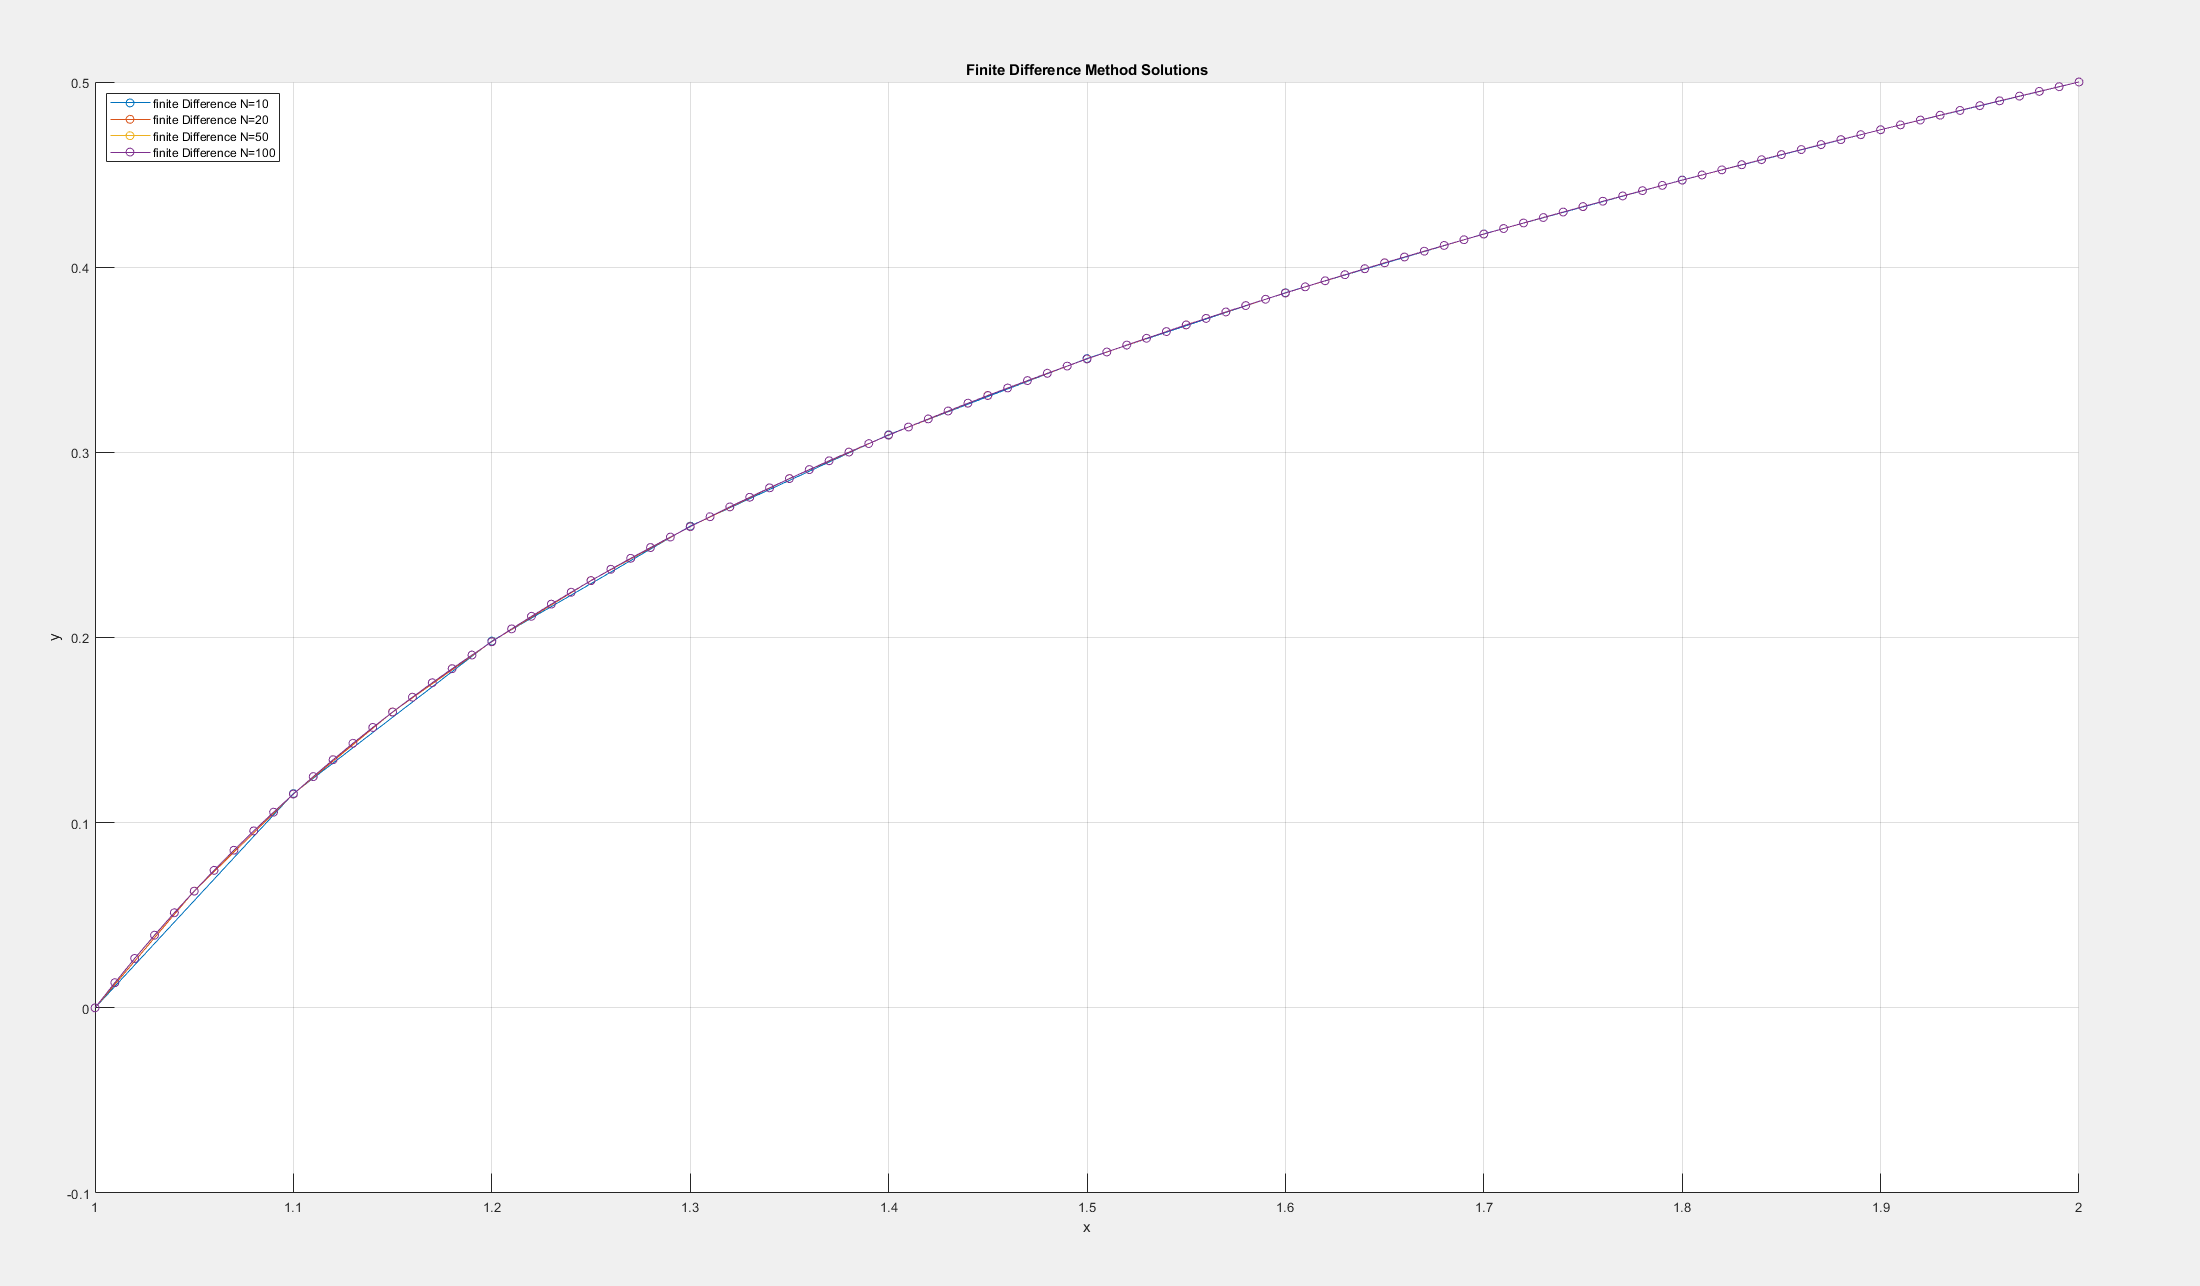
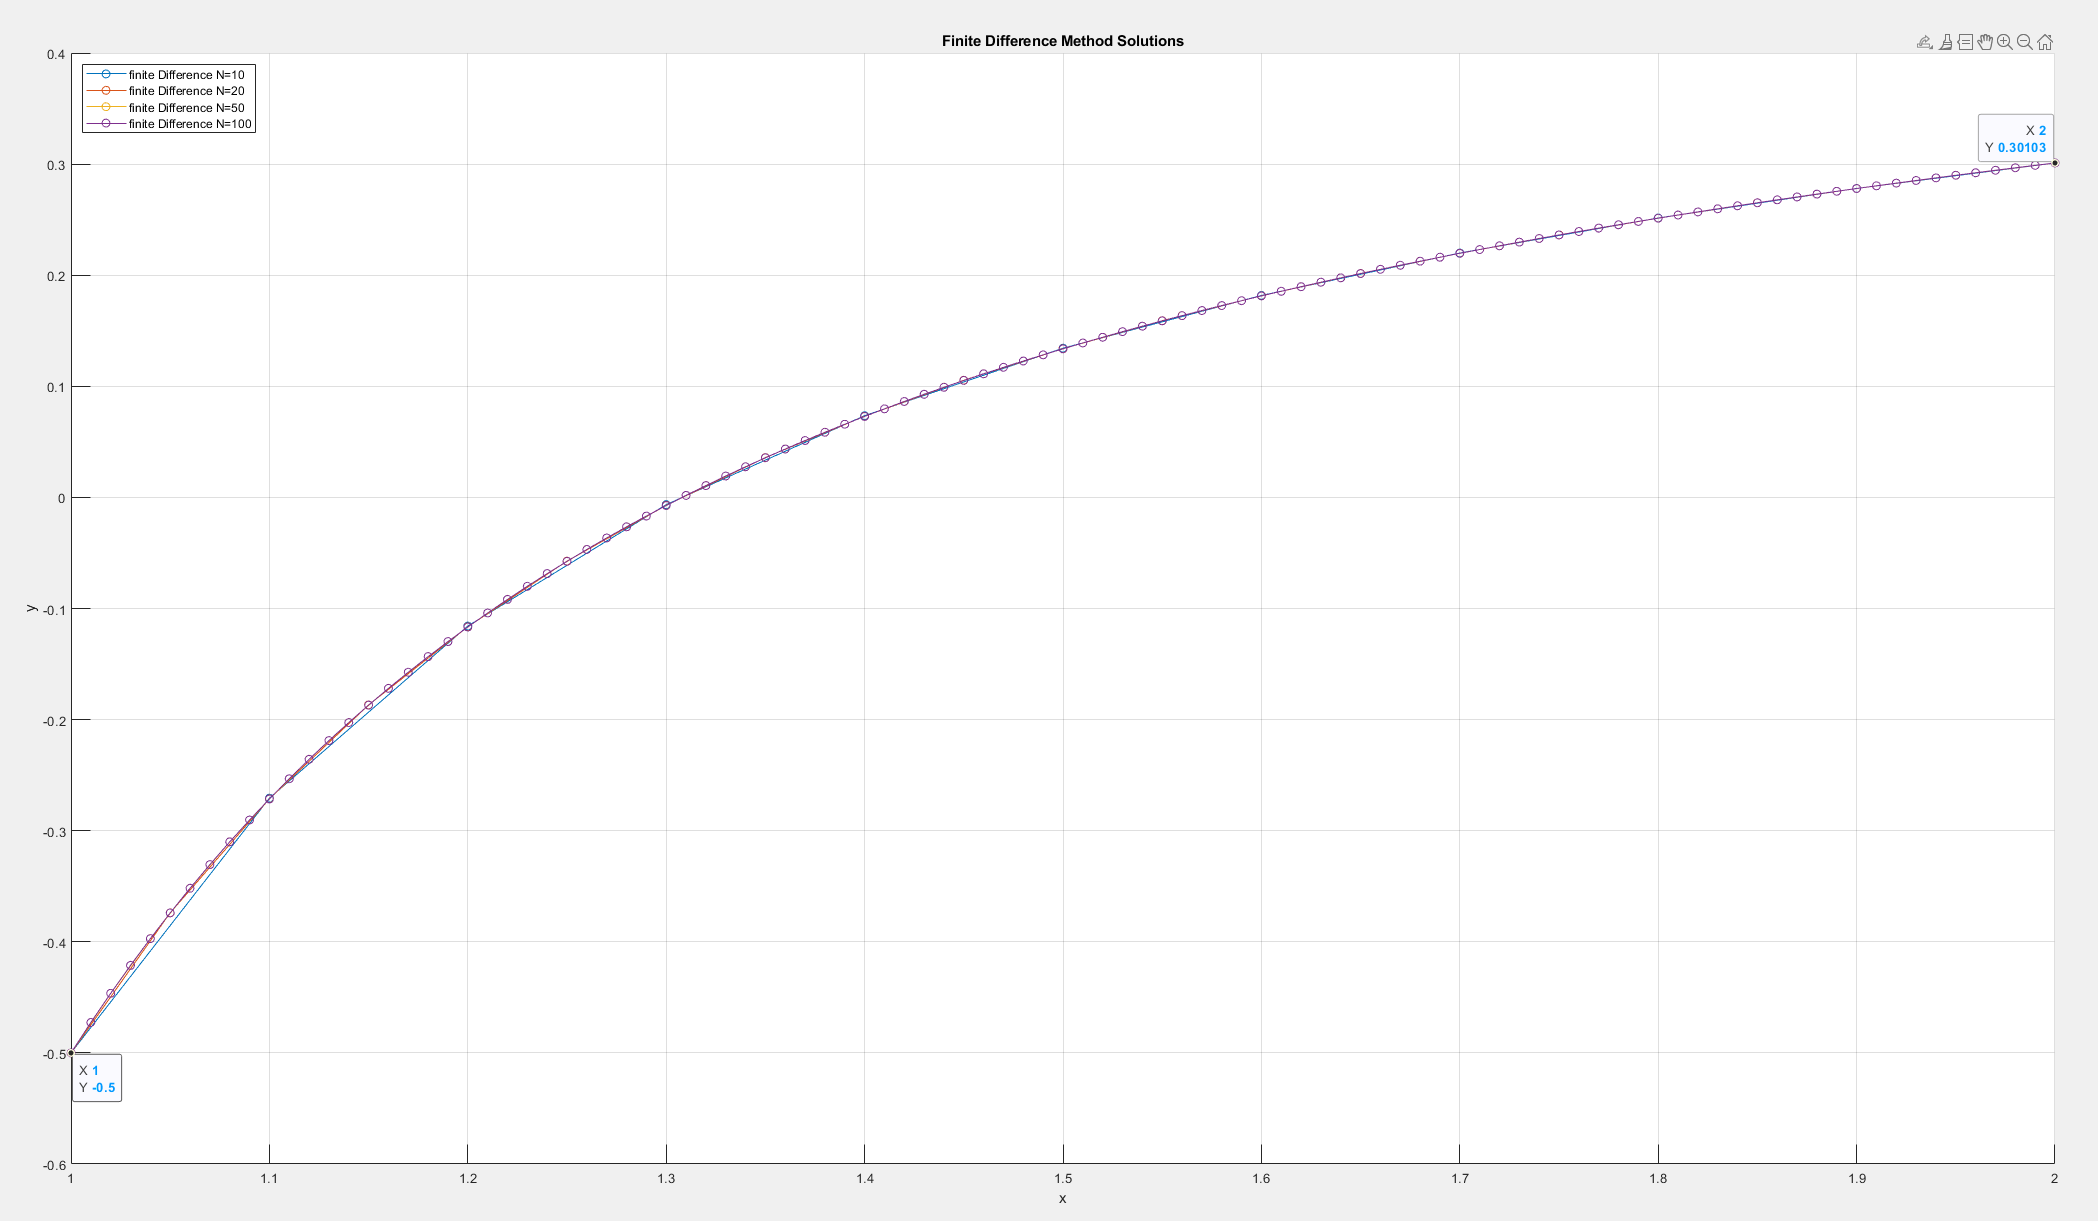
fixed problems

diff --git a/Assignment 6/question 2/finiteDiff2.m b/Assignment 6/question 2/finiteDiff2.m
@@ -14,8 +14,9 @@ function [x, y] = finiteDiff2(ax, bx, cx, x0, xf, y0, yf, N)
     y = zeros(1, N);
     
     sol_mat = zeros(N+1, N+1);
-    sol_mat(1,1) = y0;
+    sol_mat(1,1) = 1;
     c = zeros(1, N+1);
+    y(1) = y0;
 
     c(1) = cx(x0);
 
@@ -23,7 +24,7 @@ function [x, y] = finiteDiff2(ax, bx, cx, x0, xf, y0, yf, N)
         c(i) = cx(x(i));
         if(i == N+1) %if at the last i, do sol_mat(i,i) = yf
            y(i) = yf;
-           sol_mat(i,i) = yf;
+           sol_mat(i,i) = 1;
         else %set up the coefficients
            sol_mat(i, i-1) = 1/(height^2) - ax(x(i))/(2*height);
            sol_mat(i, i) = -2/(height^2) + bx(x(i));
@@ -31,7 +32,7 @@ function [x, y] = finiteDiff2(ax, bx, cx, x0, xf, y0, yf, N)
         end
     end
 
-    y = sol_mat \ c';
+    y = linsolve(sol_mat, y');
 
 
 end

diff --git a/Assignment 6/question 2/finiteDiff2_test.m b/Assignment 6/question 2/finiteDiff2_test.m
@@ -21,12 +21,15 @@ N_values = [10, 20, 50, 100];
 figure;
 hold on;
 %get and plot graphs
+
 for i = 1:length(N_values)
     N = N_values(i);
     %ax, bx, cx, x0, xf, y0, yf, N
     [x_fd2, y_fd2] = finiteDiff2(a, b, c, x0, xf, y0, yf, N);
     plot(x_fd2, y_fd2, 'o-', 'DisplayName', sprintf('finite Difference N=%d', N));
 end
+
+
 
 hold off;
 xlabel('x');
